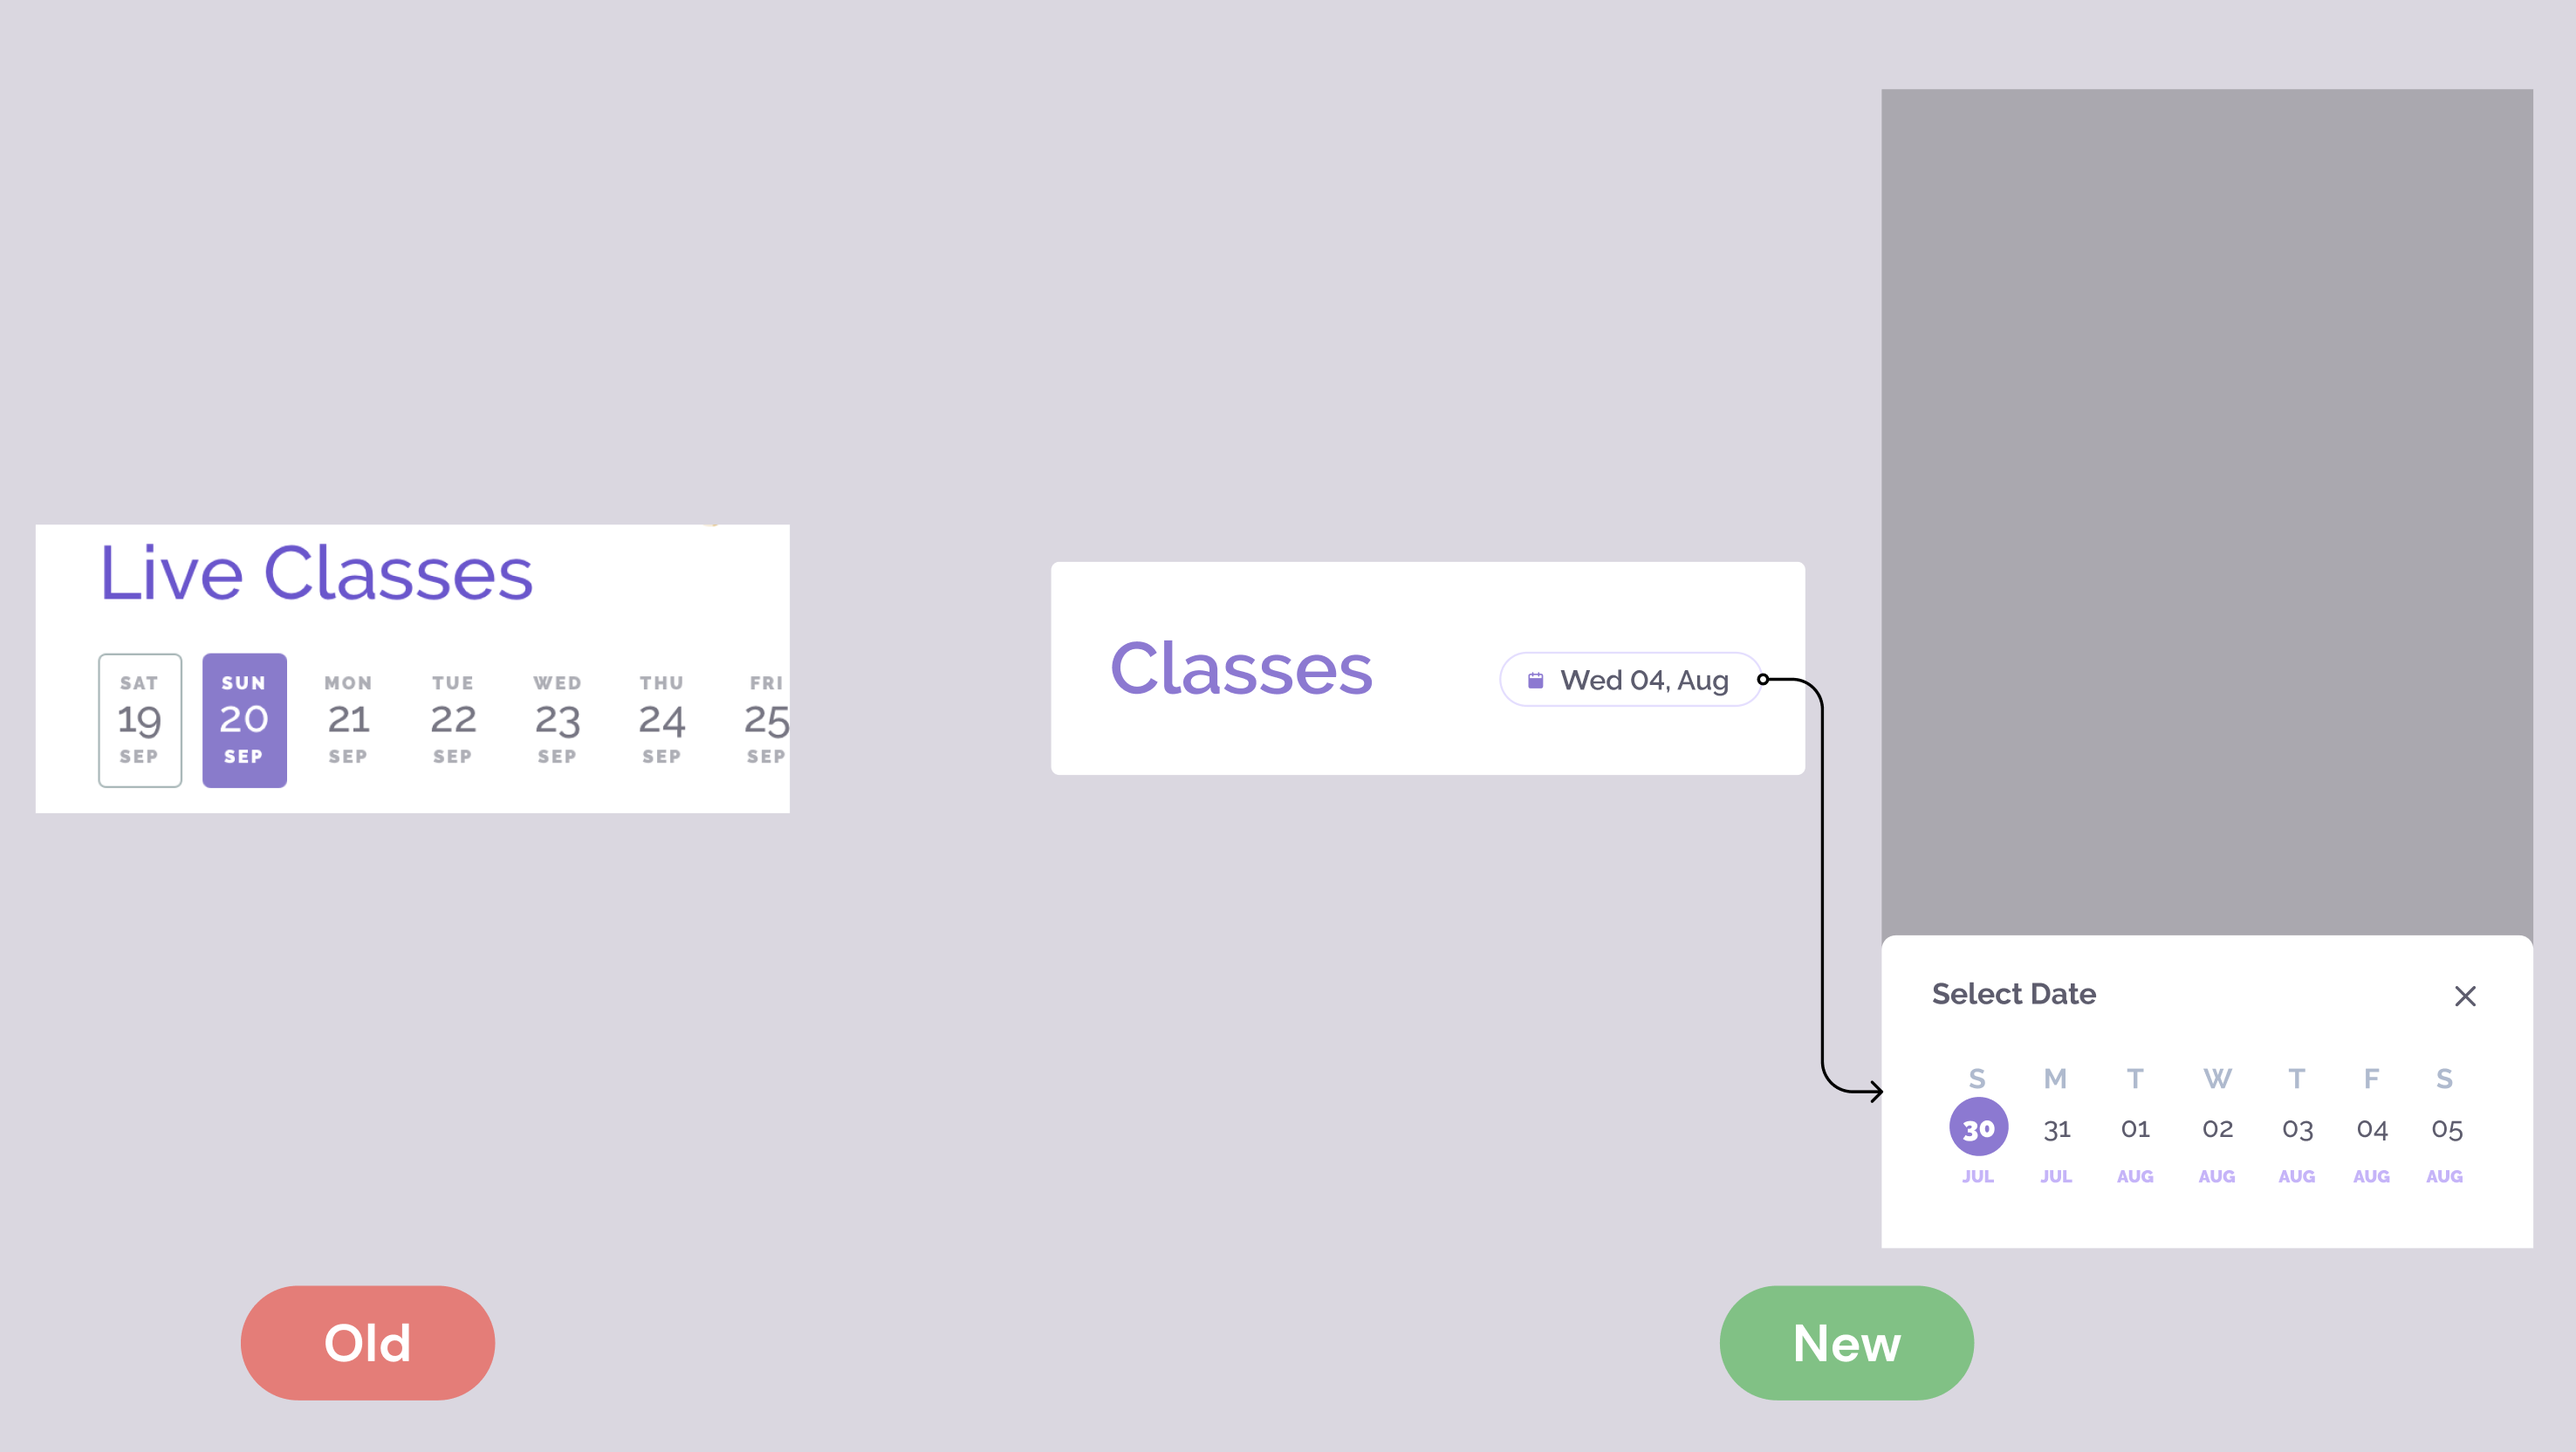
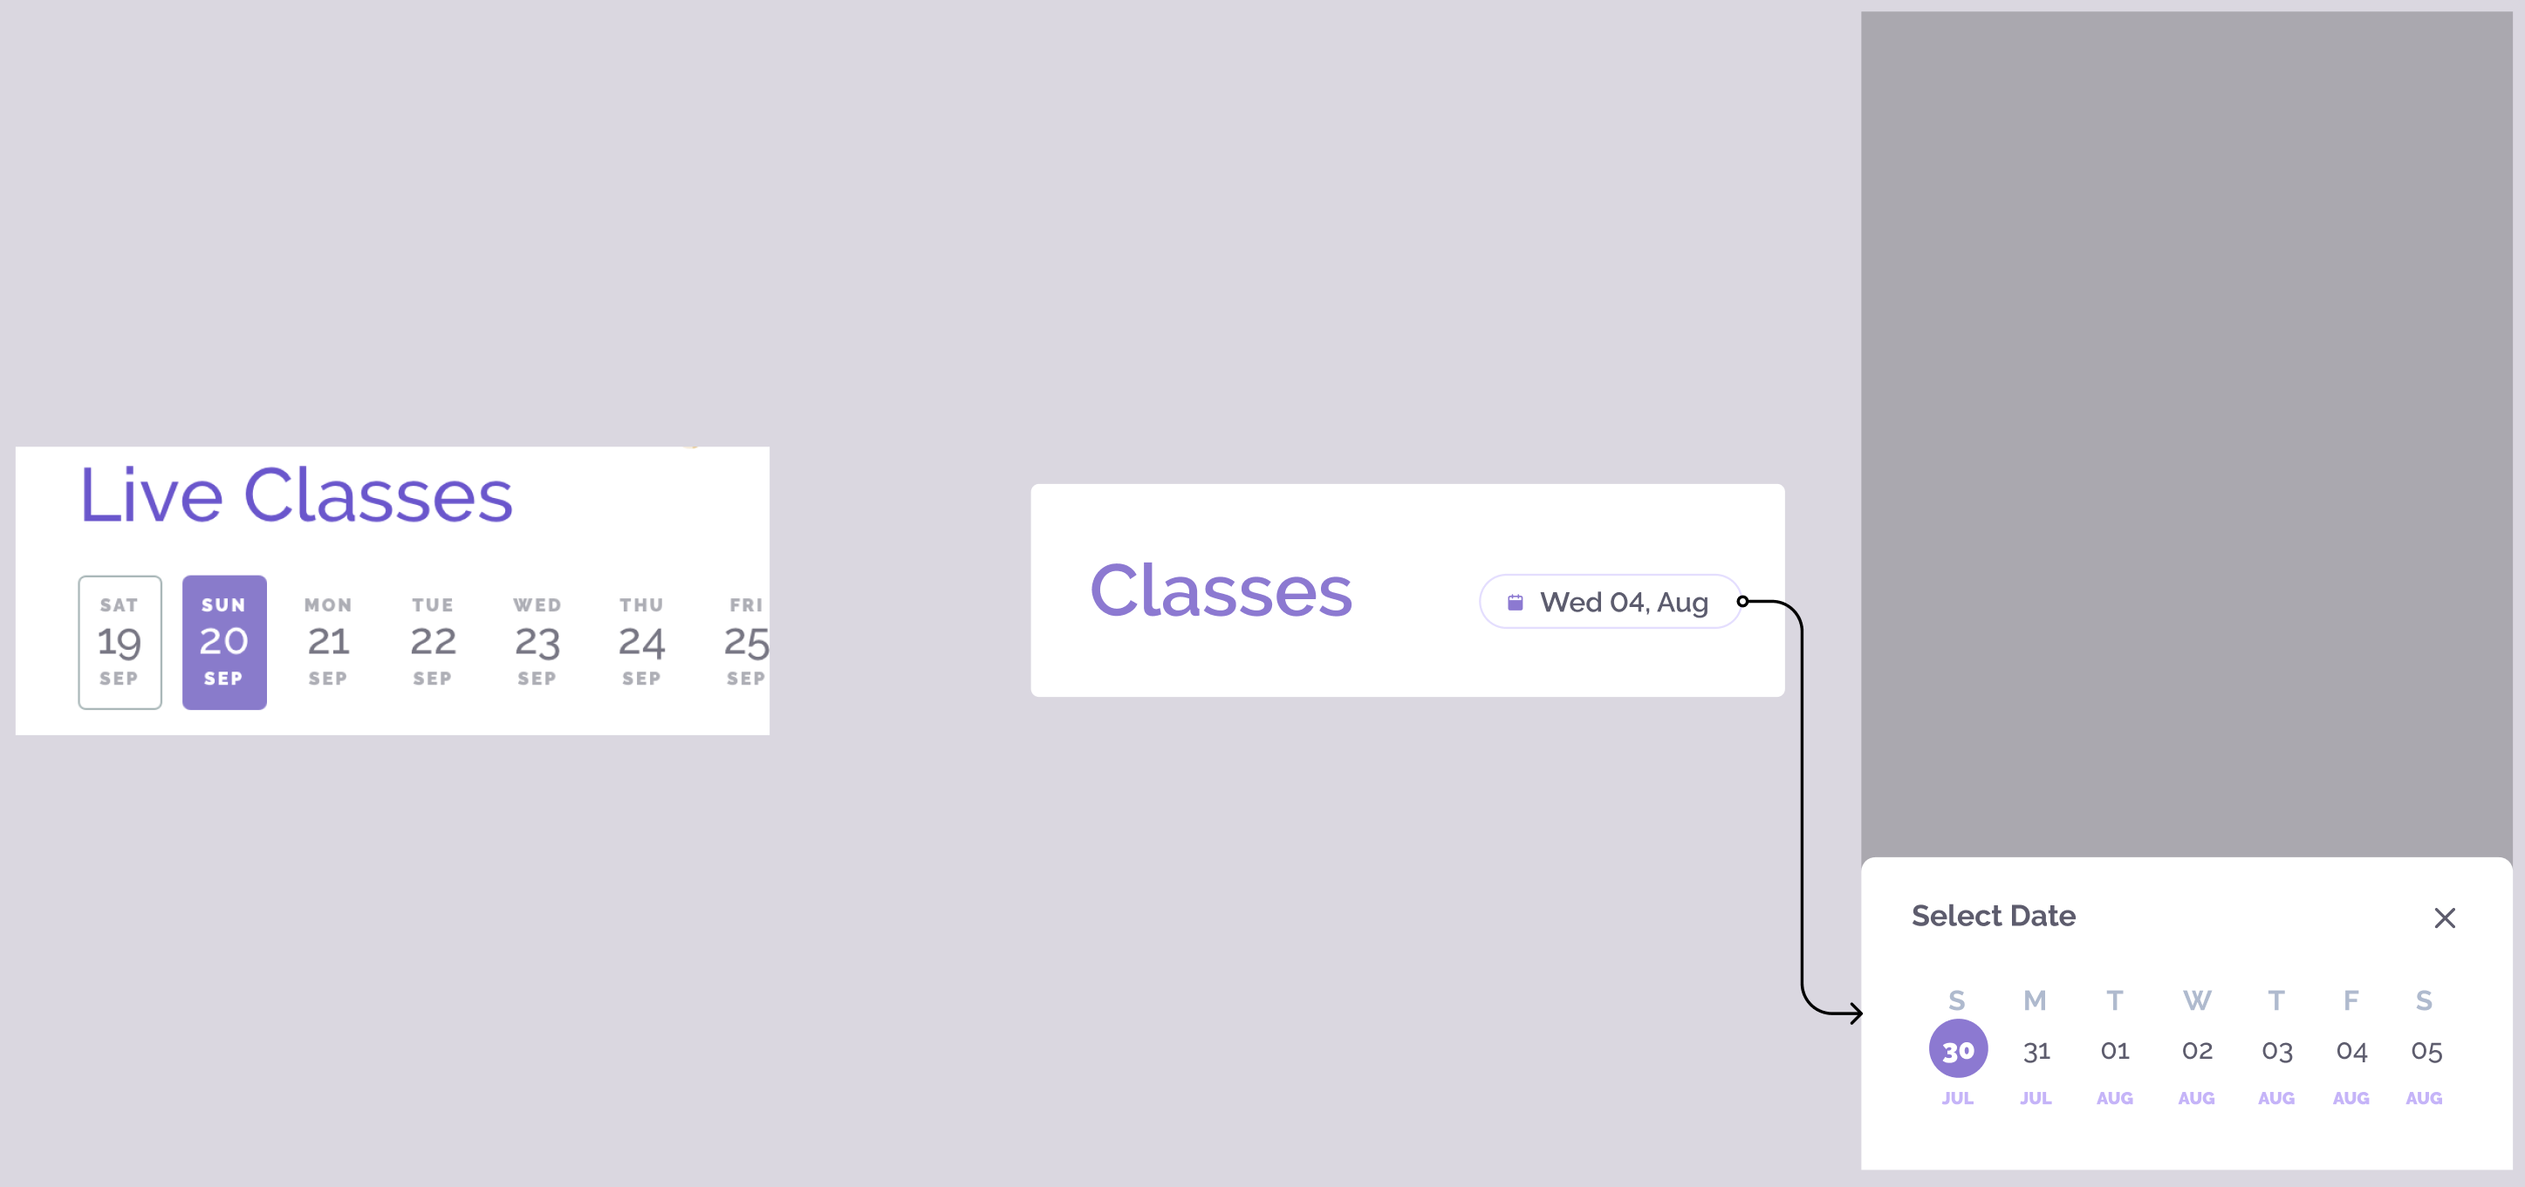
mindhouse coming together

Changed region(s): [[0.4043, 0.0, 0.9952, 0.9875], [0.0, 0.3395, 0.311, 0.6172], [0.0933, 0.8641, 0.2177, 0.9875]]

diff --git a/mindhouse.html b/mindhouse.html
@@ -32,22 +32,30 @@
         <p class="f4 lh-copy">Mindhouse is an meditation app and offers 7 different courses/techniques and 4 courses have a mini version also. Each course has different types and classes are taken by different instructors. A way to think about it would be through a university analogy. Physics is the course. It could have multiple classes, with different professors, and different material being taught in each class. In total there are about 70 different classes in a single day on the app. </p>
         <a href="https://www.mindhouse.com/courses/" target="new" style="color: #7E58EA;">Check out Mindhouse</a><i data-feather="arrow-up-right" class="blue"></i>
         <p class="f2 lh-copy">"Make it easier to choose a live class for the user"</p>
+        <a data-src="Images/mindhouse/old_book.png" data-fancybox="">
+          <img class="br4" src="Images/mindhouse/old_book.png">
+        </a>
         <p class="f4 lh-copy">Because of the large number of classes(approx 70 per day), currently it is hard for a user to choose the class they are looking for. Because each class has an instructor, </p>
         <p class="f4 b">Intro to the app</p>
         <p class="f4 lh-copy">To understand the app, it’s a guided meditation tool(Like Headspace) but it has trainers who take live classes. I worked with Ashish Goel who leads the design at Mindhouse. Mindhouse used to have a physical studio where the classes happened but then COVID-19 struck and like all businesses Mindhouse shifted to online. So one of the primary interfaces that the app has is the Book tab. This lists down all the classes that are scheduled in a certain week which you can book and attend.</p>
         <a href="https://apps.apple.com/in/app/mindhouse-modern-meditation/id1484471377" target="new" style="color: #7E58EA;">Check out the app</a><i data-feather="arrow-up-right" class="blue"></i>
         
-        <p class="f4 b">Date filter</p>
-        <a data-src="Images/mindhouse/date.png" data-fancybox="">
-          <img class="br4" src="Images/mindhouse/date.png">
-        </a>
+        <p class="f4 b">Day Selector</p>
         <div class="mw9 center ph3-ns">
           <div class="cf ph2-ns">
             <div class="fl w-100 w-50-ns pa2">
+              <a data-src="Images/mindhouse/date-old.png" data-fancybox="">
+                <img src="Images/mindhouse/date-old.png">
+              </a>
+              <p class="f4 b old">Old</p>
               <p class="f4 lh-copy">In the past, people booked for the full week in advance because physical 
                 classes had limited capacity, but since online classes can be booked anytime, most people were booking right before the time slot</p>
             </div>
             <div class="fl w-100 w-50-ns pa2">
+              <a data-src="Images/mindhouse/date-new.png" data-fancybox="">
+                <img src="Images/mindhouse/date-new.png">
+              </a>
+              <p class="f4 b new">New</p>
               <p class="f4 lh-copy">The date selector is removed and a button is added. This opens up the selector as modal.</p>
             </div>
           </div>
@@ -55,19 +63,101 @@
 
 
         <p class="f4 b">Time of the day slots</p>
-        <a data-src="Images/mindhouse/date.png" data-fancybox="">
-          <img class="br4" src="Images/mindhouse/date.png">
-        </a>
         <div class="mw9 center ph3-ns">
           <div class="cf ph2-ns">
             <div class="fl w-100 w-50-ns pa2">
+              <a data-src="Images/mindhouse/time-old.png" data-fancybox="">
+                <img src="Images/mindhouse/time-old.png">
+              </a>
+              <p class="f4 b old">Old</p>
               <p class="f4 lh-copy">When changing from morning to evening time slot each time the page gets a refresh</p>
             </div>
             <div class="fl w-100 w-50-ns pa2">
+              <a data-src="Images/mindhouse/time-new.png" data-fancybox="">
+                <img src="Images/mindhouse/time-new.png">
+              </a>
+              <p class="f4 b new">New</p>
               <p class="f4 lh-copy">Time slots are divided into tabs on the top making it the primary navigation and users can swipe to change the time of the day now</p>
             </div>
           </div>
         </div>
+
+
+        <p class="f4 b">Finding favourite instructor</p>
+        <div class="mw9 center ph3-ns">
+          <div class="cf ph2-ns">
+            <div class="fl w-100 w-50-ns pa2">
+              <p class="f4 b old">Old</p>
+              <p class="f4 lh-copy">A class can be taken by multiple instructors. Users prefer certain instructors and it’s not possible to choose based on the instructor. So people open the class and then have to find out the instructor.</p>
+            </div>
+            <div class="fl w-100 w-50-ns pa2">
+              <p class="f4 b new">New</p>
+              <p class="f4 lh-copy">Instructor name has been added as metadata on the card making it easier for the users to choose.</p>
+            </div>
+          </div>
+        </div>
+
+
+        <p class="f4 b">Sub Class Type</p>
+        <div class="mw9 center ph3-ns">
+          <div class="cf ph2-ns">
+            <div class="fl w-100 w-50-ns pa2">
+              <p class="f4 b old">Old</p>
+              <p class="f4 lh-copy">Users maintain a note for vital yoga upper body and lower body(remember the physics analogy?) and not possible now. So there’s a course name which is primary(Vital Yoga) and then the class type which is secondary(Upper body/Lower body)</p>
+            </div>
+            <div class="fl w-100 w-50-ns pa2">
+              <p class="f4 b new">New</p>
+              <p class="f4 lh-copy">Added the class type name along with the course name</p>
+            </div>
+          </div>
+        </div>
+
+
+        <p class="f4 b">Save that favourite class</p>
+        <div class="mw9 center ph3-ns">
+          <div class="cf ph2-ns">
+            <div class="fl w-100 w-50-ns pa2">
+              <p class="f4 b old">Old</p>
+              <p class="f4 lh-copy">Users have preferences when it comes to live classes mainly focussing on a particular type of class taken by a particular instructor. Even when the instructor name is added in the metadata users repeat these classes and currently, they have to repeat that action every time-searching for a particular class and then a particular instructor</p>
+            </div>
+            <div class="fl w-100 w-50-ns pa2">
+              <p class="f4 b new">New</p>
+              <p class="f4 lh-copy">Added a favourite action to save these classes as favourites and then book that class whenever it’s available in the week. Since each class also has a subclass type the favourite button saves the class+sub class type+instructor. A favourite toggle button is added on the top to filter these saved classes.</p>
+            </div>
+          </div>
+        </div>
+
+
+        <p class="f4 b">Mini Duration Classes</p>
+        <div class="mw9 center ph3-ns">
+          <div class="cf ph2-ns">
+            <div class="fl w-100 w-50-ns pa2">
+              <p class="f4 b old">Old</p>
+              <p class="f4 lh-copy">Each course has a longer duration and a shorter duration and currently, these two are separate courses resulting in the users requiring to choose a shorter duration class as a separate course. That means when users select Musical mindfulness the shorter classes are not shown</p>
+            </div>
+            <div class="fl w-100 w-50-ns pa2">
+              <p class="f4 b new">New</p>
+              <p class="f4 lh-copy">Mini is added as a toggle on the top to easily filter shorter duration courses. Since users can join a live class this lets anyone who is looking for a quick short class</p>
+            </div>
+          </div>
+        </div>
+
+        
+        <p class="f4 b">Class Filters</p>
+        <div class="mw9 center ph3-ns">
+          <div class="cf ph2-ns">
+            <div class="fl w-100 w-50-ns pa2">
+              <p class="f4 b old">Old</p>
+              <p class="f4 lh-copy">Each course is pill and it’ll show/filter only those classes when selected. So to see all classes just deselect them all. Every time user has to swipe to reach the classes at the end since it’s a carousel of the classes</p>
+            </div>
+            <div class="fl w-100 w-50-ns pa2">
+              <p class="f4 b new">New</p>
+              <p class="f4 lh-copy">Carousel is removed and all filters are placed together. Recommended classes can be toggled on and can be applied together. Particular classes can be deselected from these. All classes can be selected at once. IF everything goes haywire you can just reset the filters.</p>
+            </div>
+          </div>
+        </div>
+
+
 
         
 

diff --git a/mindhouse.css b/mindhouse.css
@@ -2,3 +2,11 @@ p {
     font-family: 'DM Sans', sans-serif;
     color: #5D5C6D;
 }
+
+.old{
+    color: #E47D78;
+}
+
+.new{
+    color: #81C185;
+}
